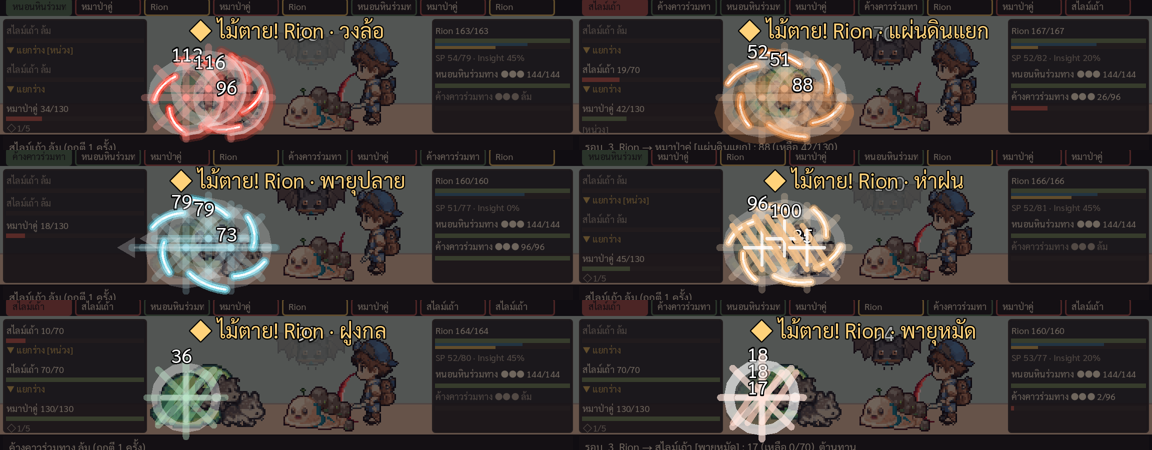
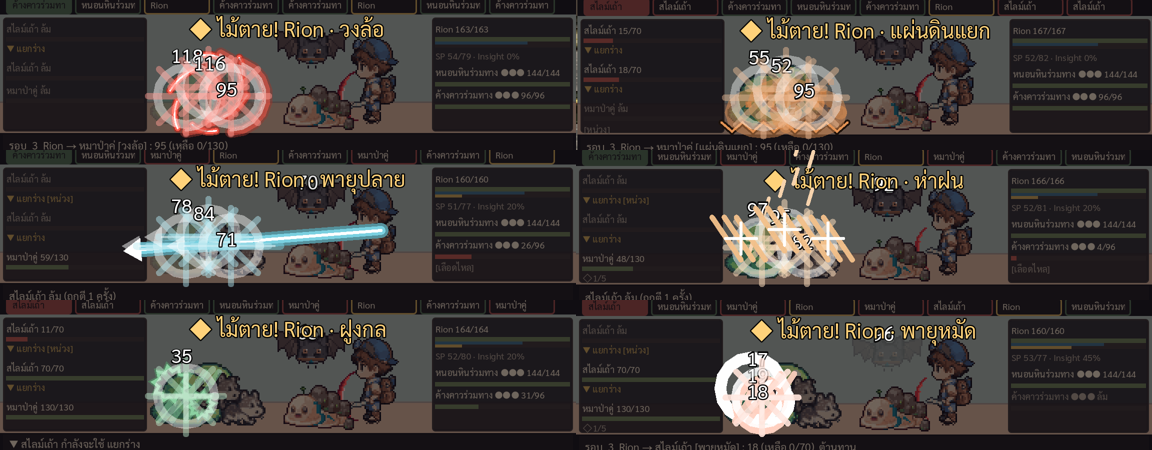
Battle FX: signature ultimate visual per weapon school
Claude-Session: https://claude.ai/code/session_01GQscemcyhAULQ41Vq3Zx3F

diff --git a/reborner/tools/web/reborner.html b/reborner/tools/web/reborner.html
@@ -160,7 +160,7 @@ html, body { height: 100%; background-color: #0e0d0b; }
 </script>
 		<script src="index.js"></script>
 		<script>
-const GODOT_CONFIG = {"args":[],"canvasResizePolicy":2,"emscriptenPoolSize":8,"ensureCrossOriginIsolationHeaders":true,"executable":"index","experimentalVK":false,"fileSizes":{"index.pck":506408,"index.wasm":39513091},"focusCanvas":true,"gdextensionLibs":[],"godotPoolSize":4};
+const GODOT_CONFIG = {"args":[],"canvasResizePolicy":2,"emscriptenPoolSize":8,"ensureCrossOriginIsolationHeaders":true,"executable":"index","experimentalVK":false,"fileSizes":{"index.pck":512008,"index.wasm":39513091},"focusCanvas":true,"gdextensionLibs":[],"godotPoolSize":4};
 const GODOT_THREADS_ENABLED = false;
 const engine = new Engine(GODOT_CONFIG);
 

diff --git a/reborner/CLAUDE.md b/reborner/CLAUDE.md
@@ -143,6 +143,8 @@ Sim ปิดตัวเองเมื่อรัน headless · บรรท
   เทสต์ 6 ข้อผ่าน (เมนู · รู้ไม้ตาย 7 ท่า · prof 45 · สถานะ/ทีมเหมือนเดิมหลังจบ · กลับมาเดินได้) · ภาพ `previews/practice_room.png`
   **เลือกสายได้ (kwan 3 ต.ค.)**: "ทดลองท่า" → ปุ่มสายทุกสายใน techs.csv (คม ทุบ แทง ยิง กล มือเปล่า · สายละ 7 ท่า) · prof ชั่วคราว = req_prof สูงสุดของสายที่เลือก
   เทสต์ทุกสายใช้ไม้ตายได้ ภาพ `previews/practice_schools.png` · ตัวเลือกบางสายน้อยกว่า 7 ตอนเริ่ม (เช่น ยิงสังหารต้องเล็งนิ่งก่อน) = เงื่อนไขในข้อมูล ไม่ใช่บั๊ก
+  **ภาพเฉพาะไม้ตายแต่ละสาย** (`_fx_signature` · ตามสาย+scope ใน techs.csv): คม หมู่=วงล้อ เดี่ยว=กากบาท · ทุบ=รอยแตกพื้น+หินกระเด็น · แทง=ลำแสงหอกทะลุแนว ·
+  ยิง หมู่=ห่ากระสุนจากฟ้า เดี่ยว=เป้าเล็งหด · กล=เฟืองหมุนสวน · มือเปล่า=วงกระแทกตามจำนวน hits · ยังจาง: รอยแตกพื้น (ทุบ) กับเฟือง (กล) ถูกวงแสงทับ
 
 ## งานถัดไปตามลำดับ
 1. ✅ รัน Sim headless → เทียบตารางเป้า (`docs/SIM_REPORT_2026-09-25.md`) · ✅ เพิ่มบอส B1 เข้า Sim แล้ว · ✅ ยอมรับเป้ามีดทำครัวใหม่ (GDD 11.29)
